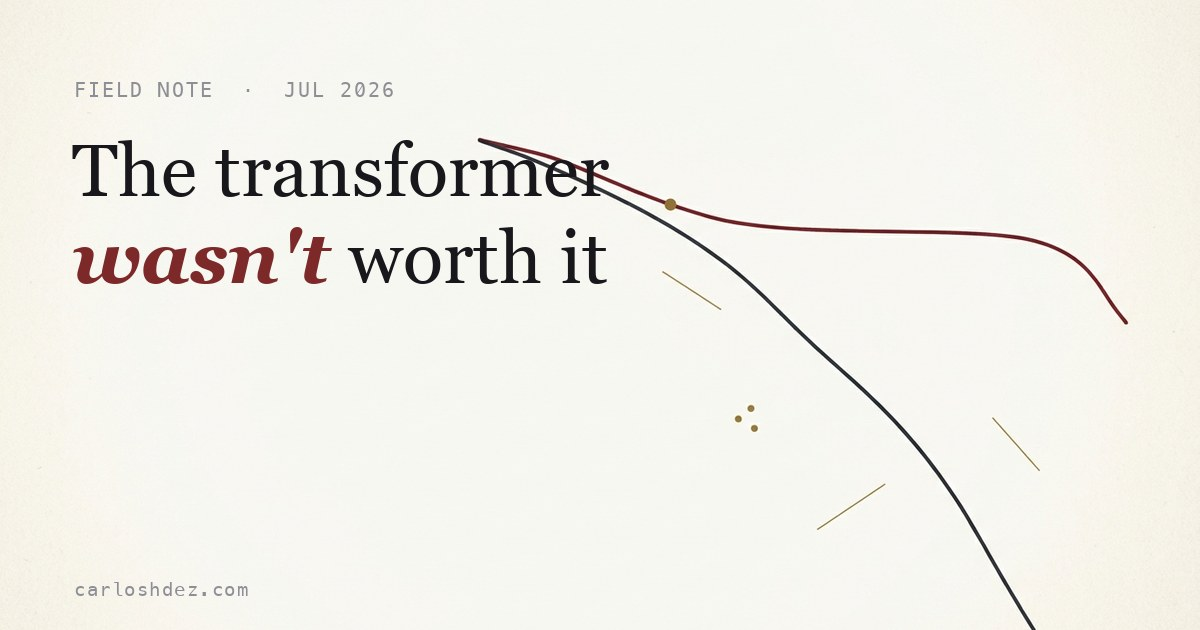
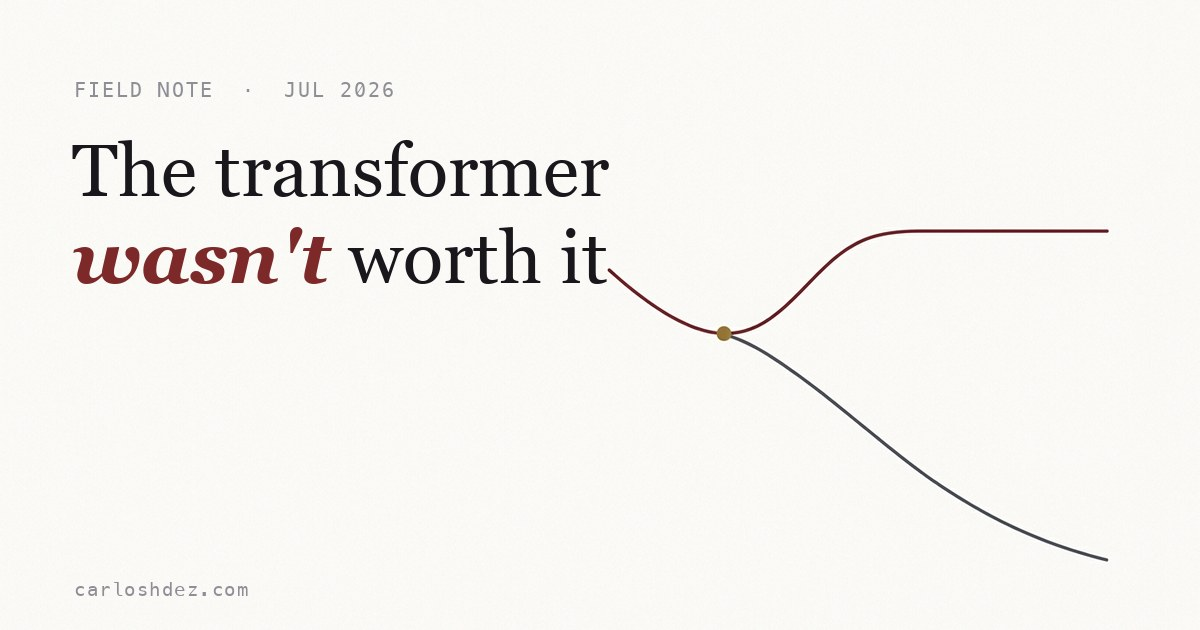
Unify share cards: normalize every background to #faf9f6, convert prompts card PNG->JPG
The image model's off-white drifted card to card (some shipped cards were visibly creamier). Every card is now white-balanced to the exact brand paper with a per-channel gain that leaves the line-art untouched. The prompts card moves from a 347 KB PNG to a 45 KB normalized JPG (OG/Twitter refs updated). Also swaps field note #5's card for a cleaner motif (no title overlap, no stray marks). Pipeline documented in AUTHORING-RUNBOOK.md + IMAGE-STYLE.md.

diff --git a/notes/prompts-deserve-migrations.es.html b/notes/prompts-deserve-migrations.es.html
@@ -17,7 +17,7 @@
 <meta property="og:title" content="Los prompts merecen migraciones, no improvisación">
 <meta property="og:description" content="Versionas el código alrededor del modelo con disciplina, y al prompt lo editas en vivo. Qué cambió cuando empecé a tratar los prompts como código — y dónde se rompió primero.">
 <meta property="og:url" content="https://carloshdez.com/notes/prompts-deserve-migrations.es.html">
-<meta property="og:image" content="https://carloshdez.com/img/notes/prompts-deserve-migrations.png">
+<meta property="og:image" content="https://carloshdez.com/img/notes/prompts-deserve-migrations.jpg">
 <meta property="og:image:width" content="1200">
 <meta property="og:image:height" content="630">
 <meta property="og:image:alt" content="Los prompts merecen migraciones, no improvisación — una pila de prompts versionados.">
@@ -25,7 +25,7 @@
 <meta property="og:locale:alternate" content="en_US">
 <meta property="article:author" content="Carlos Hernández">
 <meta name="twitter:card" content="summary_large_image">
-<meta name="twitter:image" content="https://carloshdez.com/img/notes/prompts-deserve-migrations.png">
+<meta name="twitter:image" content="https://carloshdez.com/img/notes/prompts-deserve-migrations.jpg">
 <meta name="twitter:title" content="Los prompts merecen migraciones, no improvisación">
 <meta name="twitter:description" content="Qué cambió cuando empecé a tratar los prompts como código — y dónde se rompió primero.">
 

diff --git a/notes/prompts-deserve-migrations.html b/notes/prompts-deserve-migrations.html
@@ -17,7 +17,7 @@
 <meta property="og:title" content="Prompts deserve migrations, not vibes">
 <meta property="og:description" content="You version the code around the model with real discipline, then edit the prompt live in a dashboard. What changed when I started treating prompts like code — and where it broke first.">
 <meta property="og:url" content="https://carloshdez.com/notes/prompts-deserve-migrations.html">
-<meta property="og:image" content="https://carloshdez.com/img/notes/prompts-deserve-migrations.png">
+<meta property="og:image" content="https://carloshdez.com/img/notes/prompts-deserve-migrations.jpg">
 <meta property="og:image:width" content="1200">
 <meta property="og:image:height" content="630">
 <meta property="og:image:alt" content="Prompts deserve migrations, not vibes — a stack of versioned prompt files.">
@@ -25,7 +25,7 @@
 <meta property="og:locale:alternate" content="es_ES">
 <meta property="article:author" content="Carlos Hernández">
 <meta name="twitter:card" content="summary_large_image">
-<meta name="twitter:image" content="https://carloshdez.com/img/notes/prompts-deserve-migrations.png">
+<meta name="twitter:image" content="https://carloshdez.com/img/notes/prompts-deserve-migrations.jpg">
 <meta name="twitter:title" content="Prompts deserve migrations, not vibes">
 <meta name="twitter:description" content="What changed when I started treating prompts like code — and where it broke first.">
 
